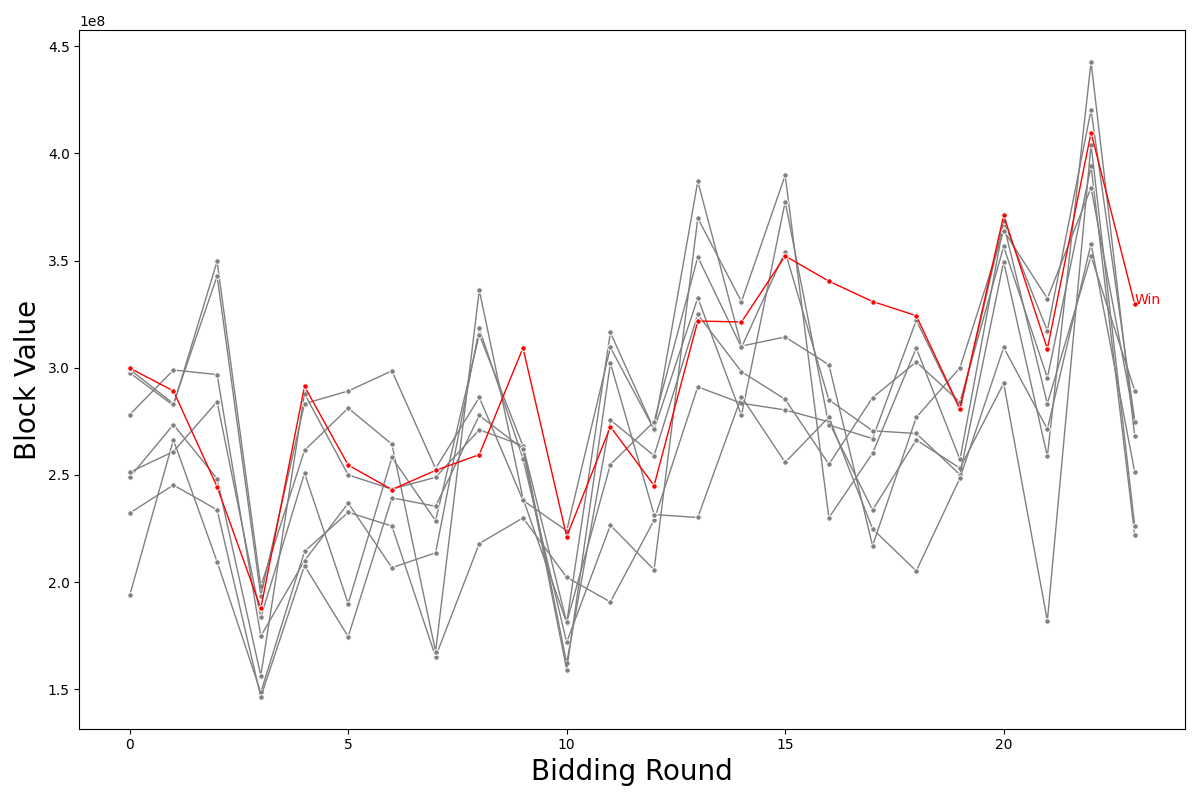
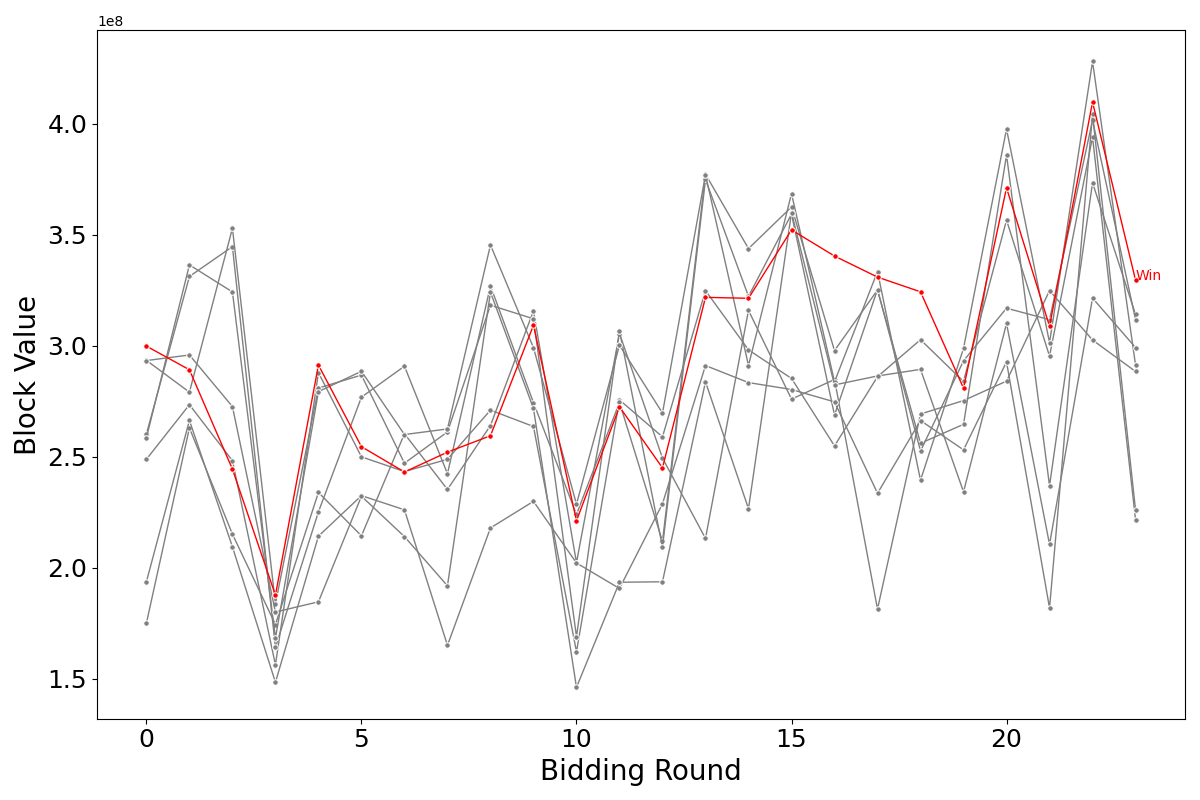
plot2

diff --git a/plots/ss/bidding_dynamic.py b/plots/ss/bidding_dynamic.py
@@ -49,6 +49,7 @@ def plot_bid_dynamics(file_path, block_number):
 
     plt.xlabel('Bidding Round', fontsize=20)
     plt.ylabel('Bid Value', fontsize=20)
+    plt.tick_params(axis='both', which='major', labelsize=18)
     plt.tight_layout()
     plt.savefig(output_figure_path)
     plt.show()
@@ -89,6 +90,7 @@ def plot_block_value_dynamics(file_path, block_number):
 
     plt.xlabel('Bidding Round', fontsize=20)
     plt.ylabel('Block Value', fontsize=20)
+    plt.tick_params(axis='both', which='major', labelsize=18)
     plt.tight_layout()
     plt.savefig(output_figure_path)
     plt.show()
